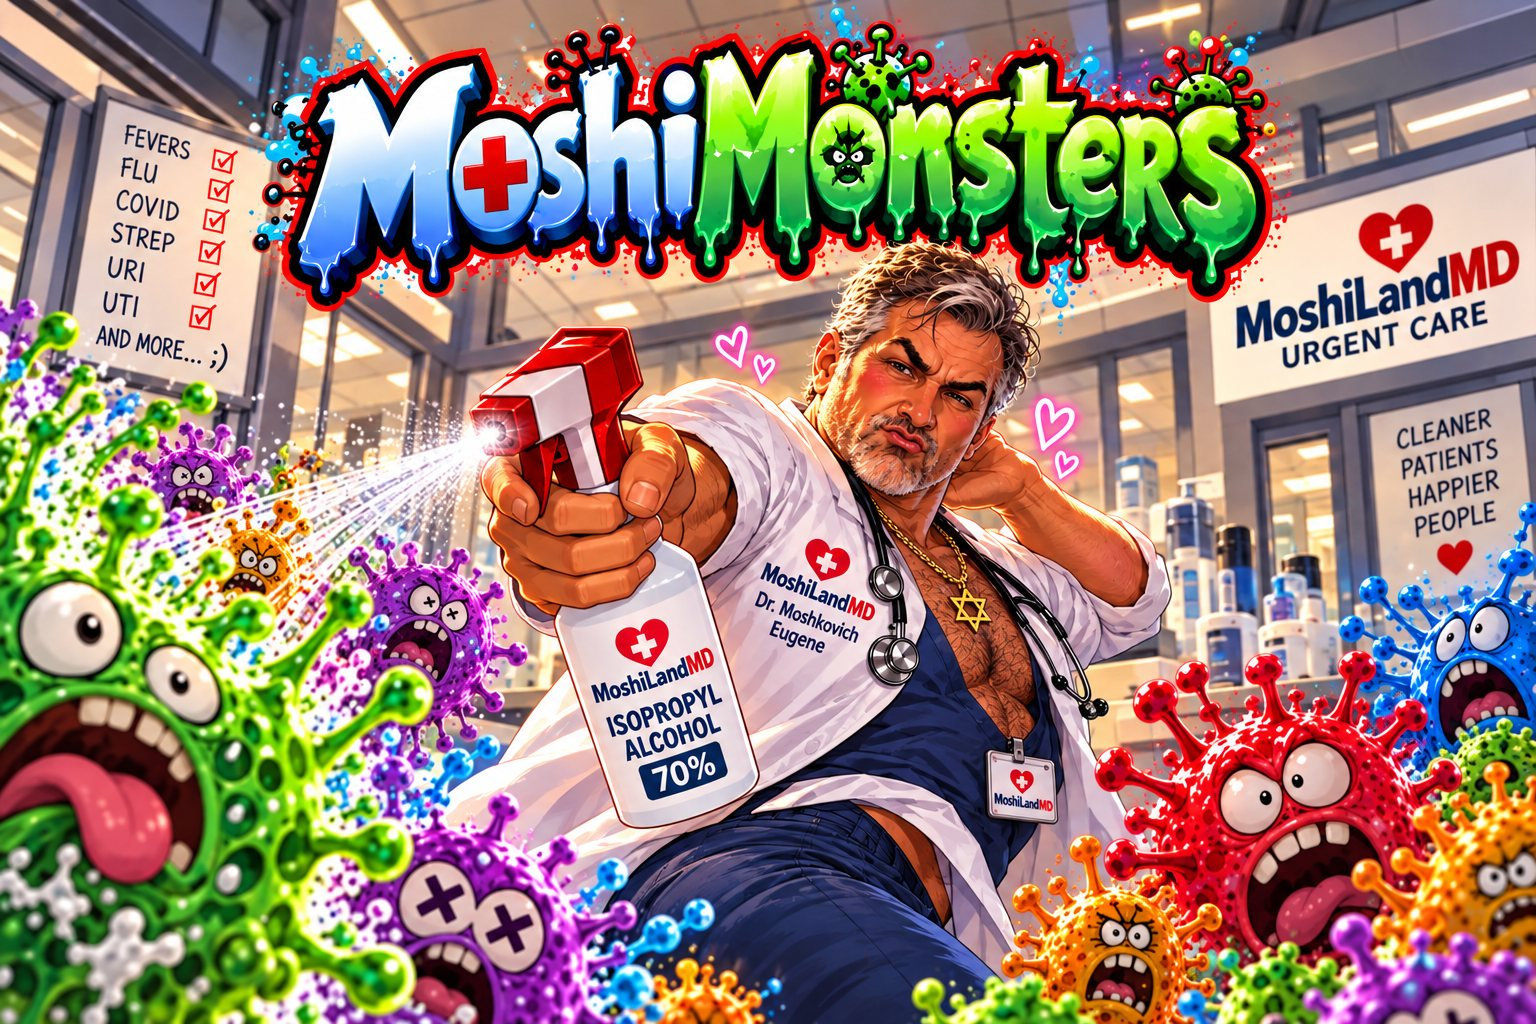
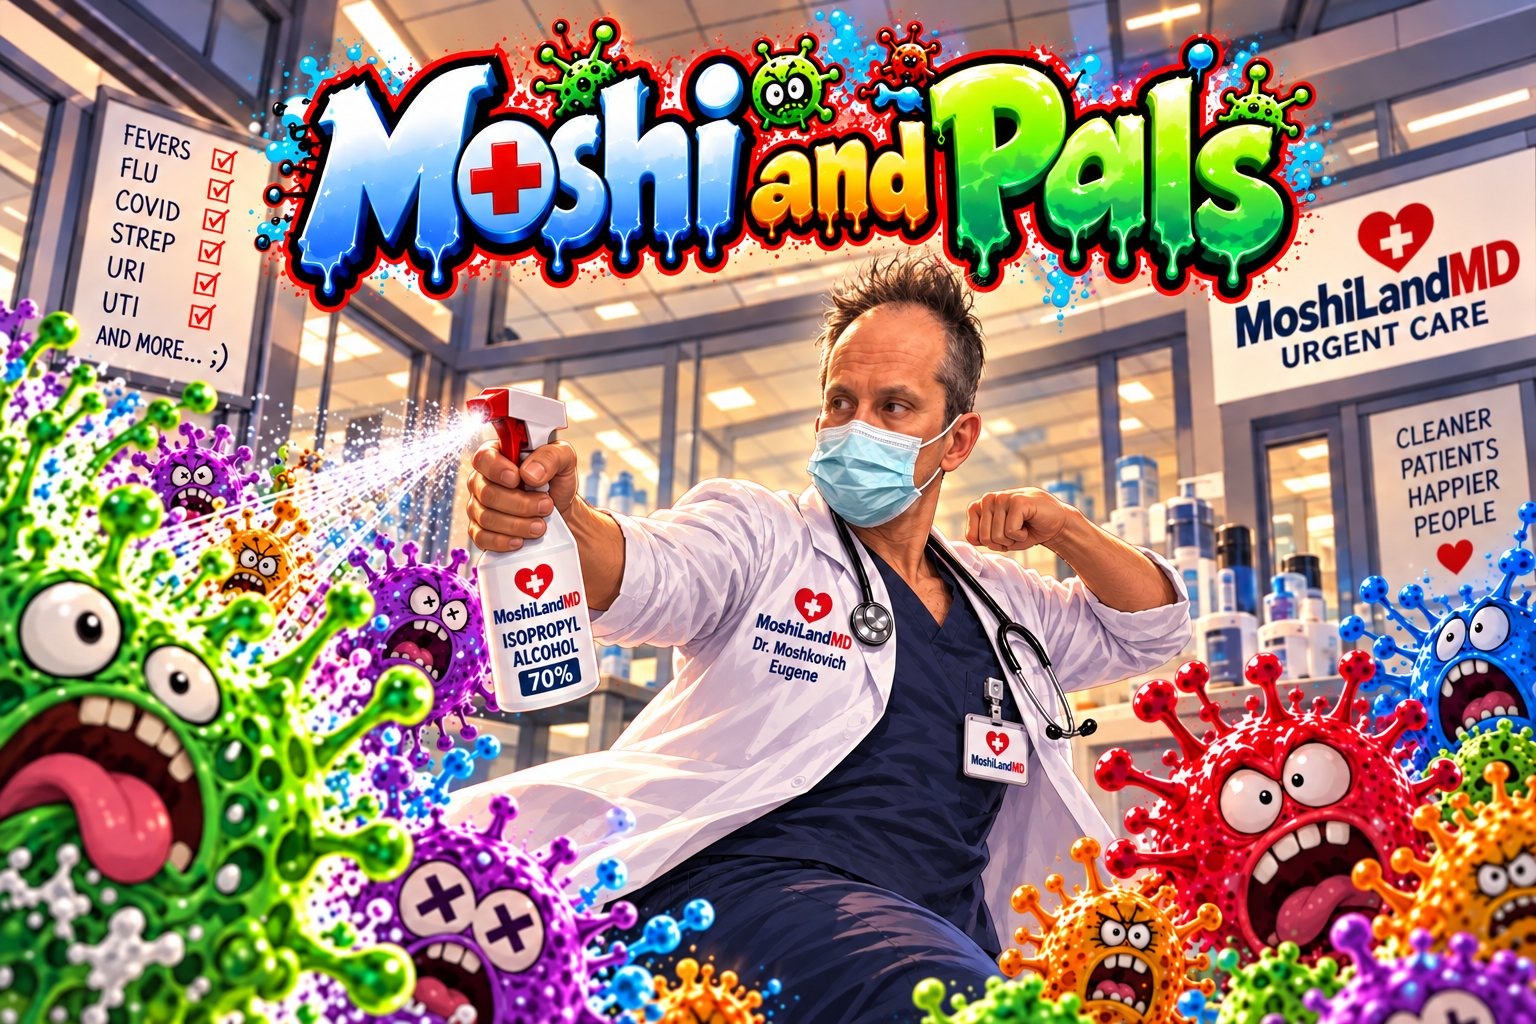
Use Noah's new Moshi and Pals title poster
Claude-Session: https://claude.ai/code/session_012MQEfuRN38jKdefbwgLAbN

diff --git a/src/scenes/BootScene.ts b/src/scenes/BootScene.ts
@@ -13,7 +13,7 @@ export class BootScene extends Phaser.Scene {
   }
 
   preload(): void {
-    // Noah's title art (MoshiMonsters poster)
+    // Noah's title art (Moshi and Pals poster)
     this.load.image('title-art', 'assets/title.jpg');
   }
 

diff --git a/docs/MY_CONTRIBUTIONS.md b/docs/MY_CONTRIBUTIONS.md
@@ -10,7 +10,7 @@
 - M3 playtest: round 1 too easy, regen too forgiving, boss needed more personality. Idea: patients who wander in as obstacles, and Eugene hates health code violations (built in v0.3.3).
 - Asked for rooms unlocked with currency earned from germ kills, and supply crates that unlock new tools. Named the currency **Copays**. Approved the tool ideas (Lysol Fogger, Bleach Super Soaker, UV Wand) and said to add more.
 - Named the clinic **MoshiLand** and asked for the rooms of a standard urgent care, including X-ray (built in v0.5.0).
-- Made the MoshiMonsters title poster (title screen since v0.5.2).
+- Made the title poster (title screen since v0.5.2; redone as Moshi and Pals in v0.5.6).
 
 ## Requested now
 - Playtest MoshiLand (v0.5.0): are the door prices right, and is any room too cramped or too empty?

diff --git a/docs/ASSETS.md b/docs/ASSETS.md
@@ -4,7 +4,7 @@
 |---|---|
 | Eugene sprite | Placeholder drawn in code, matched to Noah's description (grey thinning hair, glasses, stocky, navy scrubs) |
 | Floor tile, furniture | Placeholder, drawn in code |
-| Title screen art | Noah's MoshiMonsters poster (`public/assets/title.jpg`) |
+| Title screen art | Noah's Moshi and Pals poster (`public/assets/title.jpg`) |
 | App icons | Placeholder (`public/icons/`) |
 | Basic Germ | Placeholder, drawn in code |
 | Spray, splat, stain FX | Placeholder particles |

diff --git a/docs/CHANGELOG.md b/docs/CHANGELOG.md
@@ -1,5 +1,8 @@
 # Changelog
 
+## v0.5.6: New title poster
+- The title screen now shows Noah's new Moshi and Pals poster, so the art matches the name.
+
 ## v0.5.5: Back to Moshi and Pals
 - Noah changed his mind: the game is **Moshi and Pals** again (home screen name "Moshi & Pals", browser tab, docs). The title poster art still says MoshiMonsters since that text is part of the image.
 
